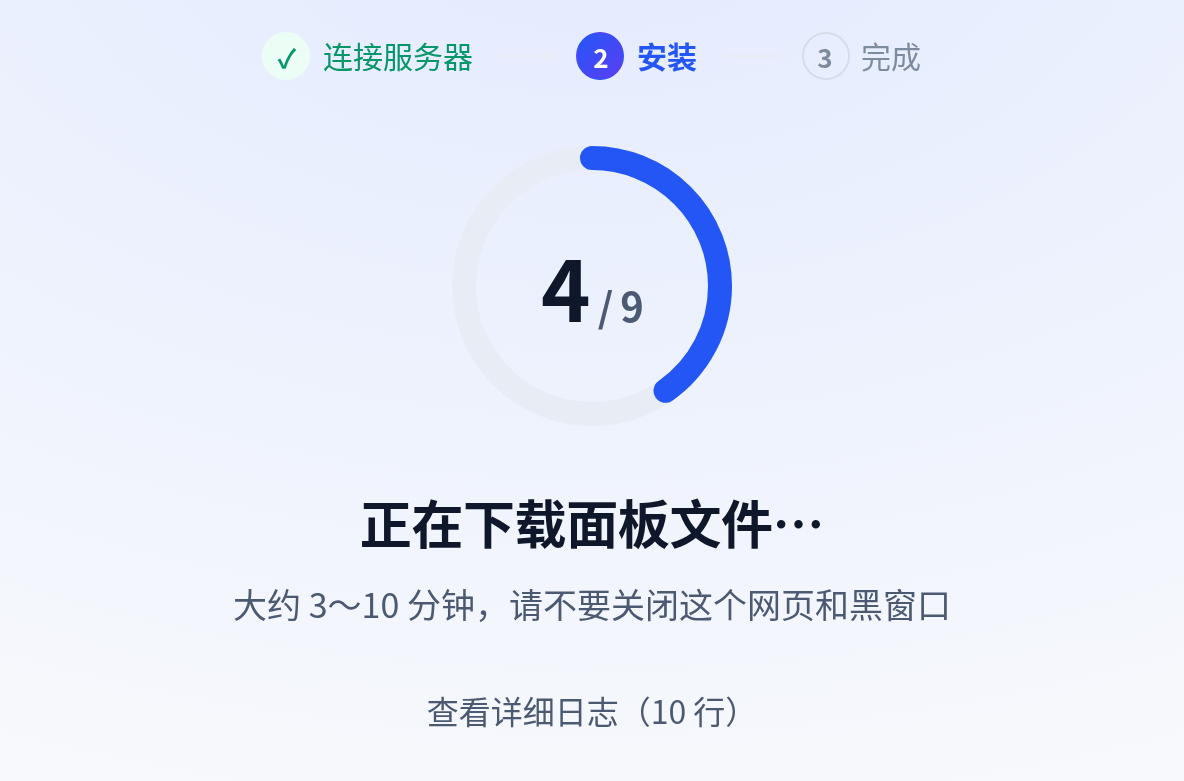
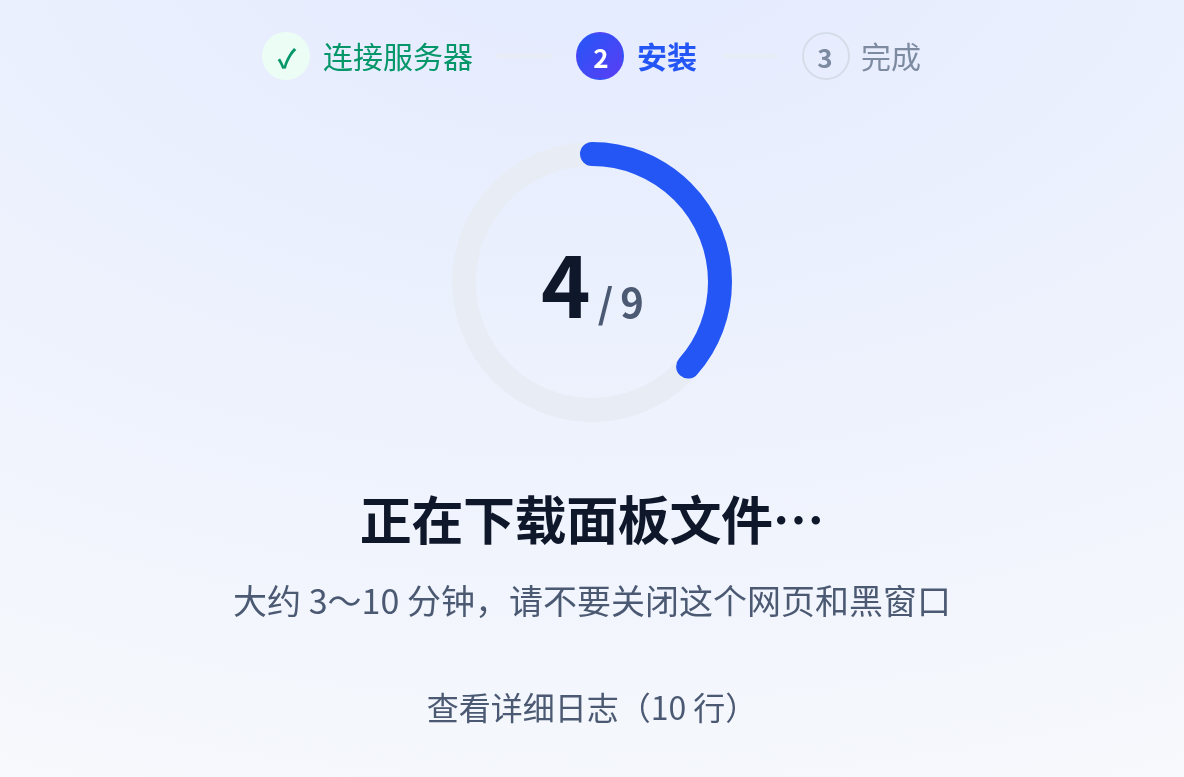
每个页面一屏放得下，不出滚动条
在 1366×657（768 高的笔记本屏幕）、1280×720、1920×937 和手机宽度 390×844 下，全部 16 个画面都不用滚动。

- 顶栏和页面底部留白减小；「返回」浮在页面第一行左边，不再单独占一行（窄屏仍单独一行）
- 连接页：两行排——服务器 IP | SSH 端口，root 密码 | SSH 用户名；安全提示块更紧凑
- 首页插图、「装好了」插图跟着窗口高度缩放
- 推荐页加宽到 720：「个人推荐」标签和标题同一行，「去看看」按钮放到服务商名字右边，三条优点各一行
- 服务器详情、提示条、卡片间距收紧
- 界面走查可以用 EVPS_WALK_SIZE 换窗口大小，最后列出每个画面有没有滚动条

diff --git a/web/src/styles/ui.css b/web/src/styles/ui.css
@@ -4,11 +4,11 @@
   content: ""; position: absolute; inset: 0 0 auto 0; height: 480px; z-index: -1; pointer-events: none;
   background: radial-gradient(60% 100% at 50% 0%, var(--glow) 0%, transparent 100%);
 }
-.bar { height: 68px; display: flex; align-items: center; padding: 0 32px; }
+.bar { height: 60px; display: flex; align-items: center; padding: 0 32px; }
 .logo { display: inline-flex; align-items: center; gap: 10px; border: 0; background: none; padding: 4px; margin-left: -4px; border-radius: 12px; font-weight: 750; font-size: 19px; letter-spacing: 0.2px; }
 .logo img { width: 32px; height: 32px; border-radius: 9px; }
 .logo:disabled { color: inherit; }
-.main { flex: 1; width: 100%; max-width: 760px; margin: 0 auto; padding: 8px 20px 56px; position: relative; }
+.main { flex: 1; width: 100%; max-width: 760px; margin: 0 auto; padding: 4px 20px 16px; position: relative; }
 
 .page { width: 100%; max-width: 560px; margin: 0 auto; }
 .page.wide { max-width: 720px; }
@@ -32,8 +32,9 @@
 @keyframes pop-in { from { opacity: 0; transform: translateY(8px) scale(0.98); } to { opacity: 1; transform: none; } }
 @keyframes fade-in { from { opacity: 0; } to { opacity: 1; } }
 
-.back-row { max-width: 560px; margin: 0 auto 2px; }
-.back { display: inline-flex; align-items: center; gap: 4px; border: 0; background: none; color: var(--text-2); font-size: 16px; padding: 6px 8px 6px 0; border-radius: 8px; }
+.back-row { max-width: 560px; margin: 0 auto; position: relative; height: 0; z-index: 1; }
+.back-row.wide { max-width: 720px; }
+.back { position: absolute; left: 0; top: -6px; display: inline-flex; align-items: center; gap: 4px; border: 0; background: none; color: var(--text-2); font-size: 16px; padding: 6px 8px 6px 0; border-radius: 8px; }
 .back:hover { color: var(--text); }
 .back .icon { width: 16px; height: 16px; }
 
@@ -97,8 +98,9 @@ h1 { font-size: 40px; line-height: 1.25; font-weight: 800; letter-spacing: -0.5p
 .spinner.big { width: 34px; height: 34px; border-width: 3px; color: var(--brand); }
 
 /* ---------- 卡片、表单 ---------- */
-.card { background: var(--surface); border-radius: var(--r-card); box-shadow: var(--shadow-card); padding: 32px; margin-top: 28px; }
-.form { display: flex; flex-direction: column; gap: 20px; }
+.card { background: var(--surface); border-radius: var(--r-card); box-shadow: var(--shadow-card); padding: 24px 28px; margin-top: 22px; }
+.form { display: flex; flex-direction: column; gap: 15px; }
+.field-row.main-side { grid-template-columns: 2fr 1fr; }
 .field { display: flex; flex-direction: column; gap: 8px; min-width: 0; }
 .field-label { font-size: 15.5px; font-weight: 650; }
 .field-row { display: grid; grid-template-columns: 1fr 1fr; gap: 16px; }
@@ -123,15 +125,15 @@ h1 { font-size: 40px; line-height: 1.25; font-weight: 800; letter-spacing: -0.5p
 .warn-text { color: var(--warn); }
 
 /* 连接页最上面：让用户放心的那句话 */
-.trust { display: flex; align-items: center; gap: 16px; padding: 20px 22px; border-radius: 18px; background: var(--ok-soft); border: 1px solid var(--ok-line); }
-.trust-ic { width: 48px; height: 48px; border-radius: 14px; background: var(--ok); color: #fff; display: grid; place-items: center; flex: none; box-shadow: 0 6px 16px rgba(5, 150, 105, 0.25); }
+.trust { display: flex; align-items: center; gap: 14px; padding: 14px 18px; border-radius: 18px; background: var(--ok-soft); border: 1px solid var(--ok-line); }
+.trust-ic { width: 44px; height: 44px; border-radius: 14px; background: var(--ok); color: #fff; display: grid; place-items: center; flex: none; box-shadow: 0 6px 16px rgba(5, 150, 105, 0.25); }
 .trust-ic .icon { width: 26px; height: 26px; stroke-width: 1.8; }
 .trust-title { font-size: 19px; font-weight: 750; line-height: 1.4; }
 .trust-sub { font-size: 14.5px; color: var(--text-2); margin-top: 3px; line-height: 1.6; }
 .trust + .card { margin-top: 16px; }
 
 /* ---------- 提示条 ---------- */
-.tip { display: flex; gap: 12px; padding: 14px 16px; border-radius: 14px; font-size: 15.5px; line-height: 1.7; text-align: left; }
+.tip { display: flex; gap: 10px; padding: 11px 14px; border-radius: 14px; font-size: 15px; line-height: 1.65; text-align: left; }
 .tip.warn { background: var(--warn-soft); color: var(--warn); border: 1px solid var(--warn-line); }
 .tip.bad { background: var(--bad-soft); color: var(--bad); border: 1px solid var(--bad-line); }
 .tip-ic { width: 20px; height: 20px; border-radius: 50%; background: currentColor; flex: none; margin-top: 2px; display: grid; place-items: center; }
@@ -139,7 +141,7 @@ h1 { font-size: 40px; line-height: 1.25; font-weight: 800; letter-spacing: -0.5p
 .tip-ic { font-size: 0; }
 
 /* ---------- 步骤条 ---------- */
-.stepsbar { display: flex; justify-content: center; align-items: center; gap: 12px; margin: 4px 0 28px; font-size: 15px; color: var(--text-3); }
+.stepsbar { display: flex; justify-content: center; align-items: center; gap: 12px; margin: 0 0 18px; font-size: 15px; color: var(--text-3); }
 .stepsbar li { display: inline-flex; align-items: center; gap: 6px; white-space: nowrap; }
 .stepsbar-dot { width: 24px; height: 24px; border-radius: 50%; border: 1.5px solid var(--line-strong); display: grid; place-items: center; font-size: 13px; font-weight: 700; }
 .stepsbar .done { color: var(--ok); }
@@ -152,9 +154,9 @@ h1 { font-size: 40px; line-height: 1.25; font-weight: 800; letter-spacing: -0.5p
 
 /* ---------- 首页 ---------- */
 .welcome { display: flex; flex-direction: column; align-items: center; padding-top: 12px; }
-.welcome-art { width: 380px; max-width: 80%; height: auto; aspect-ratio: 760 / 655; margin-bottom: 28px; filter: drop-shadow(0 24px 40px rgba(60, 70, 200, 0.12)); opacity: 0; transition: opacity 0.35s ease-out; }
+.welcome-art { width: auto; height: clamp(150px, 31vh, 328px); max-width: 80%; aspect-ratio: 760 / 655; margin-bottom: clamp(10px, 2.5vh, 28px); filter: drop-shadow(0 24px 40px rgba(60, 70, 200, 0.12)); opacity: 0; transition: opacity 0.35s ease-out; }
 .welcome-art.ready { opacity: 1; }
-.welcome .btn.xl { width: 280px; max-width: 100%; margin-top: 34px; }
+.welcome .btn.xl { width: 280px; max-width: 100%; margin-top: clamp(20px, 4vh, 34px); }
 .welcome .linkbtn { margin-top: 14px; }
 
 .list-head { display: flex; align-items: center; gap: 16px; margin: 32px 0 24px; }
@@ -198,13 +200,13 @@ h1 { font-size: 40px; line-height: 1.25; font-weight: 800; letter-spacing: -0.5p
   width: 100%; max-height: 340px; overflow: auto; margin: 0; padding: 14px 16px; border-radius: 14px;
   background: #0f172a; color: #cbd5e1; font: 13.5px/1.65 var(--mono); white-space: pre-wrap; word-break: break-all; text-align: left;
 }
-.stack { display: flex; flex-direction: column; gap: 16px; margin-top: 26px; }
-.done-art { width: 140px; height: 140px; margin: 0 auto 14px; }
+.stack { display: flex; flex-direction: column; gap: 14px; margin-top: 20px; }
+.done-art { width: clamp(88px, 15vh, 140px); height: clamp(88px, 15vh, 140px); margin: 0 auto 10px; }
 
 /* ---------- 登录信息 ---------- */
 .cred { border-radius: 16px; background: var(--surface); border: 1px solid var(--line); overflow: hidden; }
 .detail-card .cred { background: var(--sunken); }
-.cred-row { display: flex; align-items: center; gap: 12px; min-height: 58px; padding: 10px 20px; border-bottom: 1px solid var(--line); }
+.cred-row { display: flex; align-items: center; gap: 12px; min-height: 52px; padding: 8px 20px; border-bottom: 1px solid var(--line); }
 .cred-row:last-child { border-bottom: 0; }
 .cred-k { width: 80px; flex: none; font-size: 15.5px; color: var(--text-2); }
 .cred-v { flex: 1; min-width: 0; font-family: var(--mono); font-size: 17.5px; font-weight: 650; word-break: break-all; }
@@ -213,11 +215,11 @@ h1 { font-size: 40px; line-height: 1.25; font-weight: 800; letter-spacing: -0.5p
 .cred-copy:hover { background: var(--brand-soft); }
 
 /* ---------- 服务器详情 ---------- */
-.detail { padding-top: 14px; }
+.detail { padding-top: 34px; }
 .detail-head { display: flex; align-items: center; gap: 16px; }
 .detail-host { font: 750 30px/1.3 var(--mono); text-align: left; letter-spacing: -0.5px; word-break: break-all; }
 .detail-head .hint { margin-top: 4px; }
-.detail-card { display: flex; flex-direction: column; gap: 16px; padding: 26px; }
+.detail-card { display: flex; flex-direction: column; gap: 14px; padding: 22px 24px; }
 /* 「正在查看」和查到后的内容差不多高，切换时卡片不会忽高忽低 */
 .checking { display: flex; flex-direction: column; align-items: center; justify-content: center; gap: 16px; min-height: 262px; color: var(--text-2); }
 .detail-body { display: flex; flex-direction: column; gap: 16px; }
@@ -230,25 +232,25 @@ h1 { font-size: 40px; line-height: 1.25; font-weight: 800; letter-spacing: -0.5p
 .unit.ok { color: var(--ok); }
 .unit.bad { color: var(--bad); }
 .unit.idle { color: var(--idle); }
-.quiet-links { display: flex; justify-content: center; align-items: center; gap: 10px; flex-wrap: wrap; margin-top: 20px; }
+.quiet-links { display: flex; justify-content: center; align-items: center; gap: 10px; flex-wrap: wrap; margin-top: 14px; }
 .dot-sep { color: var(--text-3); }
 
 /* ---------- 推荐 ---------- */
 .promo-page { display: flex; flex-direction: column; align-items: center; text-align: center; }
 .promo-page .card { width: 100%; text-align: left; }
 .soft-badge { display: inline-flex; align-items: center; height: 26px; padding: 0 11px; border-radius: 999px; background: var(--brand-soft); color: var(--brand-text); font-size: 13px; font-weight: 700; letter-spacing: 0.5px; flex: none; }
-.promo-page > .soft-badge { margin-bottom: 12px; }
+.promo-title { display: inline-flex; align-items: center; gap: 12px; }
 .promo-page .lead { max-width: 520px; }
 .intro span { display: block; }
-.promo { display: flex; flex-direction: column; gap: 22px; }
+.promo { display: flex; flex-direction: column; gap: 18px; }
 .prov { display: flex; align-items: center; gap: 16px; }
 .prov-logo { width: 56px; height: 56px; border-radius: 16px; background: linear-gradient(135deg, #0ea5e9, #6366f1); color: #fff; display: grid; place-items: center; font-weight: 800; font-size: 22px; flex: none; box-shadow: 0 8px 20px rgba(79, 70, 229, 0.25); }
 .prov-name { font-size: 21px; font-weight: 750; }
 .highlights { display: grid; grid-template-columns: repeat(3, 1fr); gap: 12px; }
-.highlights li { display: flex; flex-direction: column; gap: 4px; padding: 16px; border-radius: 16px; background: var(--sunken); border: 1px solid var(--line); }
-.highlights b { font-size: 16.5px; margin-top: 6px; }
+.highlights li { display: flex; flex-direction: column; gap: 3px; padding: 14px 16px; border-radius: 16px; background: var(--sunken); border: 1px solid var(--line); }
+.highlights b { font-size: 16.5px; margin-top: 4px; }
 .highlights li > span:last-child { font-size: 14px; color: var(--text-2); line-height: 1.6; text-wrap: pretty; }
-.hl-ic { width: 36px; height: 36px; border-radius: 11px; background: var(--brand-soft); color: var(--brand-text); display: grid; place-items: center; }
+.hl-ic { width: 32px; height: 32px; border-radius: 11px; background: var(--brand-soft); color: var(--brand-text); display: grid; place-items: center; }
 .hl-ic .icon { width: 19px; height: 19px; }
 .sec { font-size: 14.5px; font-weight: 700; color: var(--text-3); letter-spacing: 1px; margin: 0 0 -10px; }
 .tips-plain { display: flex; flex-direction: column; gap: 8px; font-size: 15.5px; }
@@ -303,7 +305,14 @@ h1 { font-size: 40px; line-height: 1.25; font-weight: 800; letter-spacing: -0.5p
 
 /* ---------- 窄屏 ---------- */
 @media (max-width: 640px) {
-  .bar { padding: 0 16px; height: 60px; }
+  .back-row { height: auto; margin-bottom: 4px; }
+  .back { position: static; }
+  .detail { padding-top: 8px; }
+  .field-row.main-side { grid-template-columns: 1.6fr 1fr; gap: 12px; }
+  .promo { gap: 14px; }
+  .highlights { gap: 8px; }
+  .highlights li { padding: 10px 14px; }
+  .bar { padding: 0 16px; height: 56px; }
   .main { padding: 4px 16px 40px; }
   h1 { font-size: 30px; }
   .title { font-size: 23px; }

diff --git a/web/src/components/ConnectView.vue b/web/src/components/ConnectView.vue
@@ -74,20 +74,22 @@ async function submit(): Promise<void> {
 
     <!-- 不用 <form>：浏览器看到表单提交会弹「要保存密码吗」 -->
     <div class="card form" @input="d.error = null" @keydown.enter="onEnter">
-      <label class="field">
-        <span class="field-label">服务器 IP</span>
-        <input ref="hostInput" v-model="d.host" v-bind="noFill" class="input" data-test="host" placeholder="例如 203.0.113.7" @blur="onHostBlur" />
-      </label>
-
-      <label class="field">
-        <span class="field-label">{{ d.user && d.user !== 'root' ? `${d.user} 的密码` : 'root 密码' }}</span>
-        <SecretInput v-model="d.password" test-id="password" placeholder="买服务器时服务商给的密码" />
-      </label>
-
-      <div class="field-row">
+      <!-- 两行排：左边是必填的 IP、密码，右边是一般不用改的端口、用户名。一屏放得下，不用滚动 -->
+      <div class="field-row main-side">
+        <label class="field">
+          <span class="field-label">服务器 IP</span>
+          <input ref="hostInput" v-model="d.host" v-bind="noFill" class="input" data-test="host" placeholder="例如 203.0.113.7" @blur="onHostBlur" />
+        </label>
         <label class="field">
           <span class="field-label">SSH 端口</span>
           <input v-model="d.port" v-bind="noFill" class="input" data-test="port" inputmode="numeric" />
+        </label>
+      </div>
+
+      <div class="field-row main-side">
+        <label class="field">
+          <span class="field-label">{{ d.user && d.user !== 'root' ? `${d.user} 的密码` : 'root 密码' }}</span>
+          <SecretInput v-model="d.password" test-id="password" placeholder="服务商给的密码" />
         </label>
         <label class="field">
           <span class="field-label">SSH 用户名</span>

diff --git a/web/src/components/PromoView.vue b/web/src/components/PromoView.vue
@@ -13,9 +13,8 @@ function open(p: Provider): void {
 </script>
 
 <template>
-  <section class="page promo-page">
-    <span class="soft-badge">个人推荐</span>
-    <h1 class="title">推荐一家好用的 VPS</h1>
+  <section class="page wide promo-page">
+    <h1 class="title promo-title"><span class="soft-badge">个人推荐</span>推荐一家好用的 VPS</h1>
     <!-- 一句一行：「只是个人推荐」和「用其他家也可以」各占一行，读着清楚 -->
     <p v-if="promo.intro" class="lead sm intro"><span v-for="(t, i) in sentences" :key="i">{{ t }}</span></p>
 
@@ -26,6 +25,7 @@ function open(p: Provider): void {
           <div class="prov-name">{{ p.name }}</div>
           <div v-if="p.note" class="hint">{{ p.note }}</div>
         </div>
+        <button type="button" class="btn primary" data-test="buy" @click="open(p)">去看看 ↗</button>
       </div>
 
       <ul v-if="promo.highlights.length" class="highlights">
@@ -46,7 +46,6 @@ function open(p: Provider): void {
         </ul>
       </template>
 
-      <button type="button" class="btn primary xl block" data-test="buy" @click="open(p)">去{{ p.name }}看看 ↗</button>
     </div>
 
     <button type="button" class="linkbtn center-block" data-test="bought" @click="emit('bought')">买好了，或者已经有服务器？开始安装 →</button>

diff --git a/README.md b/README.md
@@ -290,6 +290,8 @@ npm test           # 单元测试 + 假 SSH 服务器上的完整流程（安装
 npm run verify     # 类型检查 + 测试 + 构建
 # 界面走查和截图（第二个目录给了就顺便生成 README 配图）
 CHROME_BIN=/path/to/chrome node --experimental-strip-types dev/walkthrough.mjs /tmp/evps-walk docs/images
+# 换个窗口大小再走一遍，最后会列出每个画面有没有滚动条
+EVPS_WALK_SIZE=1366x657 CHROME_BIN=/path/to/chrome node --experimental-strip-types dev/walkthrough.mjs /tmp/evps-walk-small
 ```
 
 ### 目录结构
